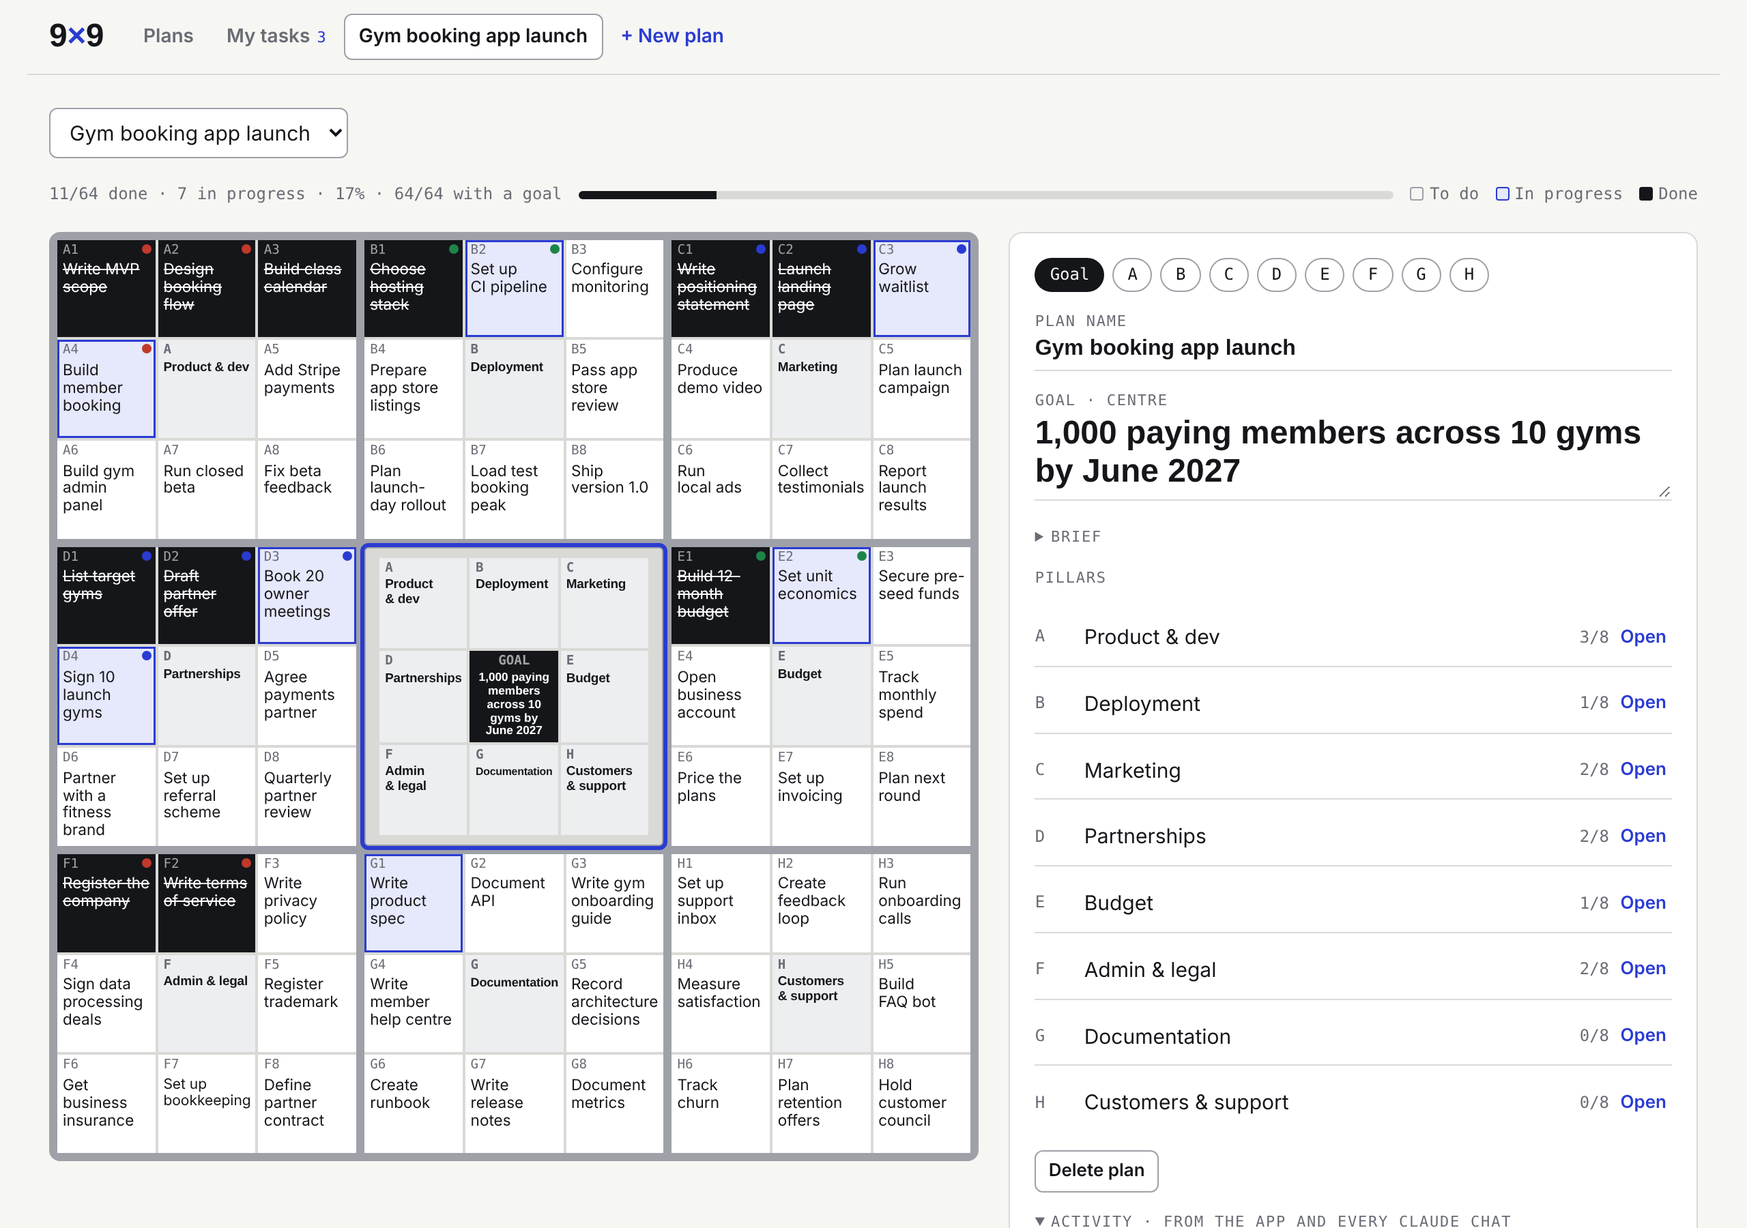
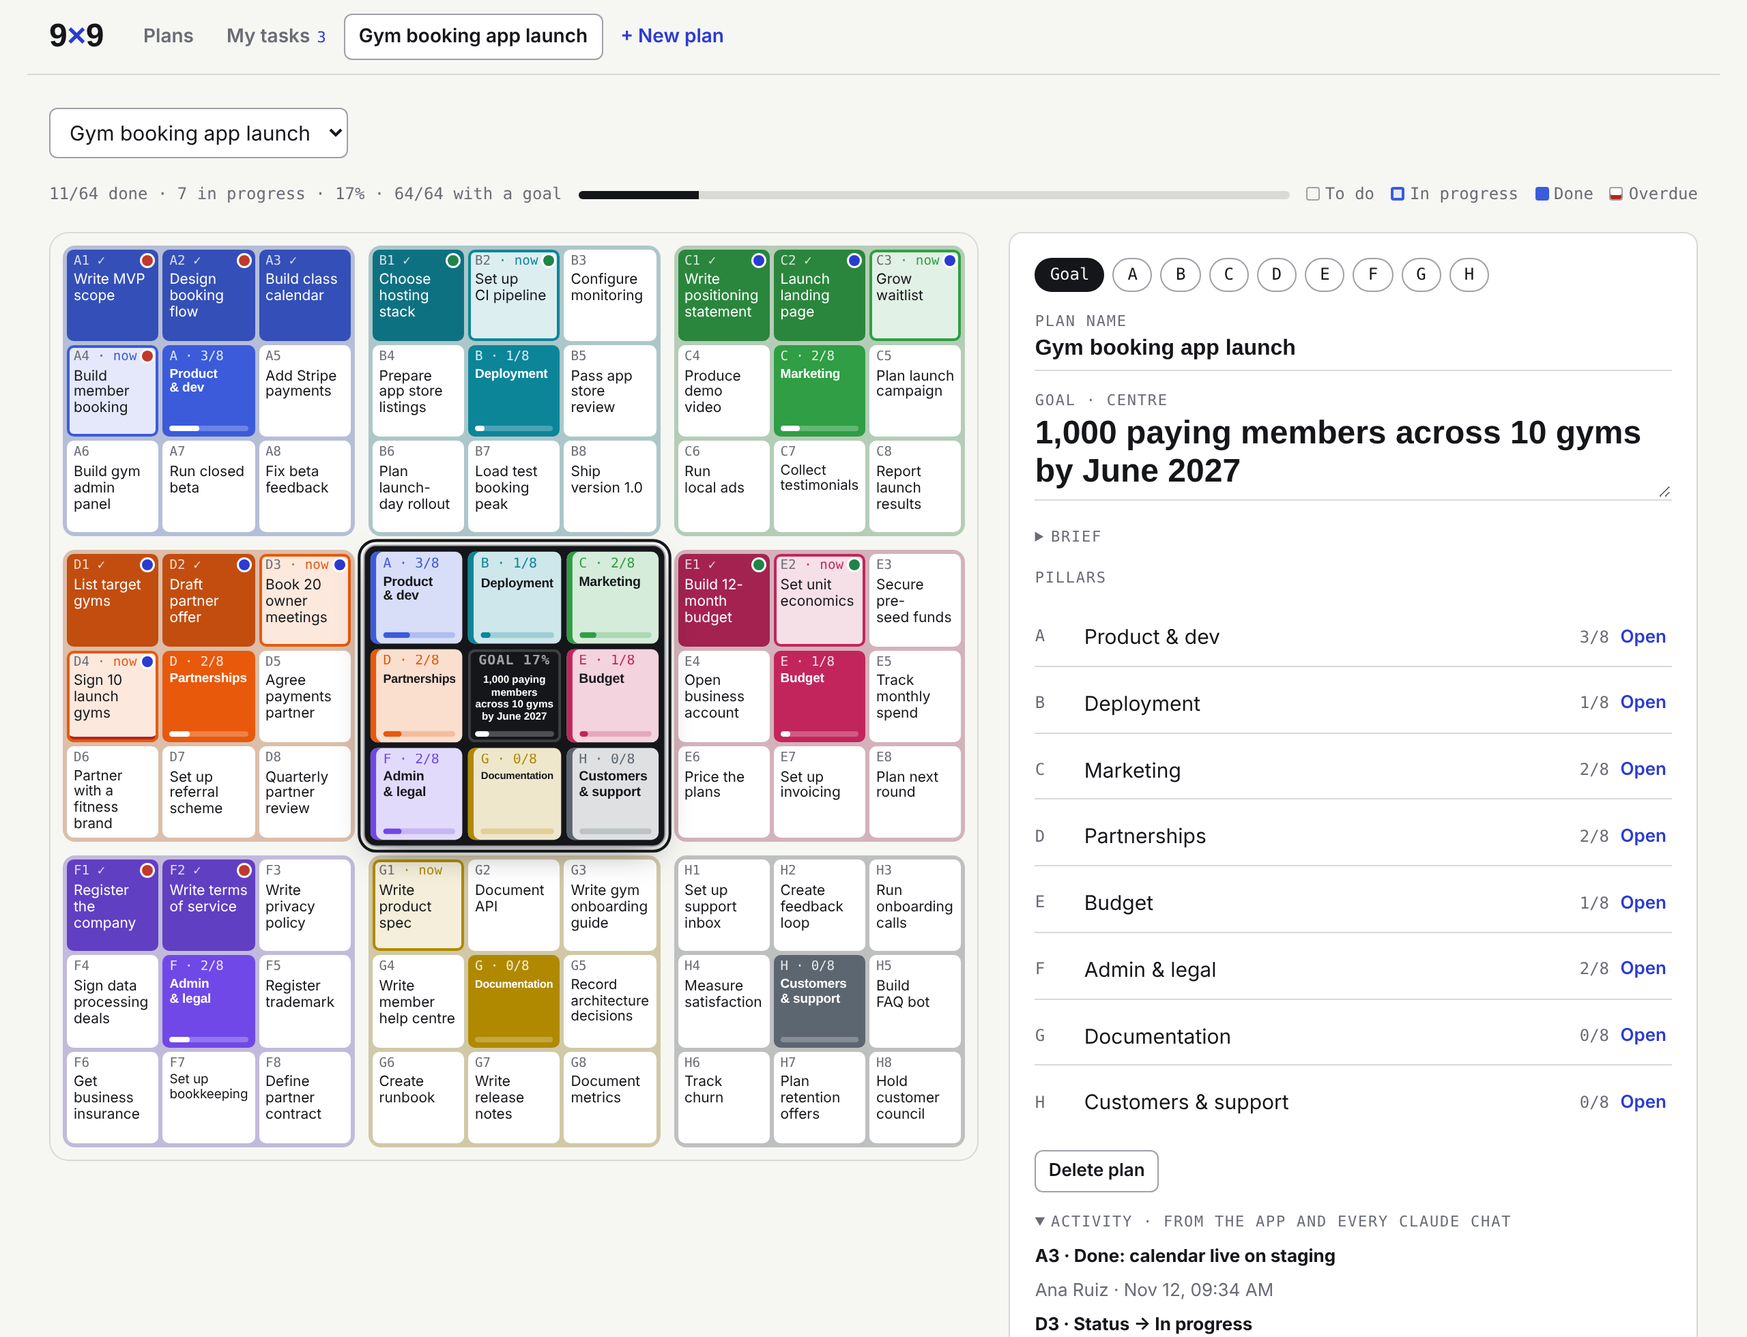
Grid redesign: colour-coded pillars, standout centre, status fills, how-it-works strip
Each pillar gets its own colour shared by its ring square, its outer
square and its actions; ring and mirror squares show done/total and a
progress bar; the centre block is raised; done actions fill with the
pillar colour, in-progress ones are outlined, overdue ones get a red
edge; hovering a pillar lights up both of its squares; first-time users
see a dismissible three-step explainer.

Claude-Session: https://claude.ai/code/session_01SXuN4rHWT8FirLUfgHheWm

diff --git a/9x9-planner/assets/planner.html b/9x9-planner/assets/planner.html
@@ -8,16 +8,17 @@
   --paper:#f6f6f3; --sheet:#ffffff; --ink:#15161a; --muted:#6a6c75; --rule:#d9dad6; --rule-strong:#9fa1a8;
   --accent:#2a3bd1; --accent-soft:#e6e8fb; --done:#15161a; --done-fg:#ffffff; --pillar:#eceef0; --goal:#15161a; --goal-fg:#ffffff;
   --danger:#b3261e;
+  --pA:#3b5bdb; --pB:#0c8599; --pC:#2f9e44; --pD:#e8590c; --pE:#c2255c; --pF:#7048e8; --pG:#b08900; --pH:#5c6670;
   --f-display:"Archivo","Arial Narrow",Arial,sans-serif;
   --f-body:"Archivo",system-ui,-apple-system,"Segoe UI",sans-serif;
   --f-mono:"IBM Plex Mono",ui-monospace,Menlo,Consolas,monospace;
 }
 @media (prefers-color-scheme:dark){:root:not([data-theme="light"]){
   --paper:#111216; --sheet:#1a1b20; --ink:#ecedf0; --muted:#9b9da6; --rule:#2c2e35; --rule-strong:#565963;
-  --accent:#8f9bff; --accent-soft:#252a52; --done:#ecedf0; --done-fg:#111216; --pillar:#24262c; --goal:#ecedf0; --goal-fg:#111216; --danger:#ff8a80; color-scheme:dark}}
+  --accent:#8f9bff; --accent-soft:#252a52; --done:#ecedf0; --done-fg:#111216; --pillar:#24262c; --goal:#ecedf0; --goal-fg:#111216; --danger:#ff8a80; --pA:#748ffc; --pB:#3bc9db; --pC:#69db7c; --pD:#ffa94d; --pE:#f783ac; --pF:#b197fc; --pG:#ffd43b; --pH:#adb5bd; color-scheme:dark}}
 :root[data-theme="dark"]{
   --paper:#111216; --sheet:#1a1b20; --ink:#ecedf0; --muted:#9b9da6; --rule:#2c2e35; --rule-strong:#565963;
-  --accent:#8f9bff; --accent-soft:#252a52; --done:#ecedf0; --done-fg:#111216; --pillar:#24262c; --goal:#ecedf0; --goal-fg:#111216; --danger:#ff8a80; color-scheme:dark}
+  --accent:#8f9bff; --accent-soft:#252a52; --done:#ecedf0; --done-fg:#111216; --pillar:#24262c; --goal:#ecedf0; --goal-fg:#111216; --danger:#ff8a80; --pA:#748ffc; --pB:#3bc9db; --pC:#69db7c; --pD:#ffa94d; --pE:#f783ac; --pF:#b197fc; --pG:#ffd43b; --pH:#adb5bd; color-scheme:dark}
 *{box-sizing:border-box}
 body{background:var(--paper);color:var(--ink);font-family:var(--f-body);font-size:15px;line-height:1.45}
 .wrap{max-width:1240px;margin:0 auto;padding:0 16px 48px;display:grid;gap:18px}
@@ -55,26 +56,50 @@ button{cursor:pointer}
 .gridbox{overflow-x:auto;-webkit-overflow-scrolling:touch;display:grid;gap:6px}
 .gridhint{display:none;font-size:12px;color:var(--muted);margin:0}
 @media (max-width:640px){.gridhint{display:block}}
-.board{display:grid;grid-template-columns:repeat(3,minmax(0,1fr));grid-template-rows:repeat(3,minmax(0,1fr));gap:6px;aspect-ratio:1;max-width:100%;min-width:600px;background:var(--rule-strong);padding:6px;border-radius:8px}
-.block{display:grid;grid-template-columns:repeat(3,minmax(0,1fr));grid-template-rows:repeat(3,minmax(0,1fr));min-width:0;min-height:0;gap:2px;background:var(--rule);border-radius:3px;outline:0 solid var(--accent);transition:outline-width .1s}
-.block.sel{outline-width:3px}
-.cell{min-height:0;position:relative;background:var(--sheet);border:0;padding:3px 4px;text-align:left;display:flex;flex-direction:column;justify-content:flex-start;overflow:hidden;min-width:0;font-size:clamp(8px,1.05vw,12px);line-height:1.15}
-.cell .code{font-family:var(--f-mono);font-size:clamp(7px,.75vw,10px);color:var(--muted);line-height:1;flex:none}
+.board{display:grid;grid-template-columns:repeat(3,minmax(0,1fr));grid-template-rows:repeat(3,minmax(0,1fr));gap:10px;aspect-ratio:1;max-width:100%;min-width:600px;background:var(--paper);padding:10px;border-radius:14px;box-shadow:inset 0 0 0 1px var(--rule)}
+.block{--pc:var(--rule-strong);display:grid;grid-template-columns:repeat(3,minmax(0,1fr));grid-template-rows:repeat(3,minmax(0,1fr));min-width:0;min-height:0;gap:3px;padding:3px;background:color-mix(in srgb,var(--pc) 22%,var(--rule));border-radius:9px;outline:0 solid var(--pc);outline-offset:2px;transition:outline-width .12s,transform .12s,box-shadow .12s}
+.block.sel{outline-width:2.5px}
+.block.centre{background:var(--ink);padding:4px;gap:4px;box-shadow:0 8px 24px -8px color-mix(in srgb,var(--ink) 55%,transparent);transform:scale(1.035);z-index:1;outline-color:var(--ink)}
+.block.hl:not(.centre){outline-width:2.5px}
+.cell{--pc2:var(--pc);min-height:0;position:relative;background:var(--sheet);border:0;border-radius:5px;padding:4px 5px;text-align:left;display:flex;flex-direction:column;justify-content:flex-start;overflow:hidden;min-width:0;font-size:clamp(8px,1.05vw,12px);line-height:1.15}
+.cell .code{font-family:var(--f-mono);font-size:clamp(7px,.75vw,10px);color:var(--muted);line-height:1;flex:none;white-space:nowrap;overflow:hidden;text-overflow:ellipsis;padding-right:8px}
 /* text is sized by fitBoard(): whole words only, shrunk until it sits inside the square */
 .cell .tx{display:block;flex:1 1 auto;min-height:0;overflow:hidden;overflow-wrap:normal;word-break:normal;hyphens:manual;margin-top:3px;line-height:1.14;text-wrap:balance}
 .cell .tx.clamp{display:-webkit-box;-webkit-box-orient:vertical;overflow-wrap:break-word}
+.cell.empty{background:color-mix(in srgb,var(--sheet) 55%,transparent)}
 .cell.empty .tx{color:var(--rule-strong)}
-.cell.pil{background:var(--pillar);font-weight:700;font-family:var(--f-display);font-stretch:75%;letter-spacing:-.01em}
-.cell.goal{background:var(--goal);color:var(--goal-fg);font-weight:800;font-family:var(--f-display);font-stretch:80%;text-align:center}
+.cell.pil{background:var(--pc2);color:#fff;font-weight:700;font-family:var(--f-display);font-stretch:75%;letter-spacing:-.01em}
+.cell.pil .code{color:inherit;opacity:.85;font-weight:500}
+.cell.pil.empty{background:color-mix(in srgb,var(--pc2) 45%,var(--sheet))}
+.cell.pil.empty .tx{color:inherit;opacity:.8}
+.cell.ring{background:color-mix(in srgb,var(--pc2) 20%,var(--sheet));color:var(--ink);box-shadow:inset 4px 0 0 var(--pc2);padding-left:9px}
+.cell.ring .code{color:var(--pc2);opacity:1}
+.cell.ring.empty .tx{color:var(--muted)}
+.cell.ring.hl{background:color-mix(in srgb,var(--pc2) 34%,var(--sheet))}
+.pbar{flex:none;height:4px;border-radius:2px;background:color-mix(in srgb,currentColor 25%,transparent);overflow:hidden;margin-top:3px}
+.pbar i{display:block;height:100%;background:currentColor;border-radius:2px}
+.cell.ring .pbar{background:color-mix(in srgb,var(--pc2) 25%,transparent)}
+.cell.ring .pbar i{background:var(--pc2)}
+:root[data-theme="dark"] .cell.pil:not(.ring){color:#111216}
+@media (prefers-color-scheme:dark){:root:not([data-theme="light"]) .cell.pil:not(.ring){color:#111216}}
+.cell.goal{background:var(--goal);color:var(--goal-fg);font-weight:800;font-family:var(--f-display);font-stretch:80%;text-align:center;box-shadow:inset 0 0 0 2px color-mix(in srgb,var(--goal-fg) 18%,transparent)}
+.cell.goal .code{letter-spacing:.06em;padding-right:0}
+.cell.goal .pbar{margin-top:4px}
 .cell.goal .tx{flex:1 1 auto;display:flex;align-items:center;justify-content:center}
 .cell.goal .tx.clamp{display:-webkit-box;align-items:normal}
 .cell.goal .code{color:inherit;opacity:.6}
-.cell.s1{background:var(--accent-soft);box-shadow:inset 0 0 0 1.5px var(--accent)}
-.cell.s2{background:var(--done);color:var(--done-fg)}
-.cell.s2 .code{color:inherit;opacity:.6}
-.cell.s2 .tx{text-decoration:line-through;text-decoration-thickness:1px}
-.cell.hit{box-shadow:inset 0 0 0 2px var(--accent)}
-.cell:hover{filter:brightness(.97)}
+.cell.s1{background:color-mix(in srgb,var(--pc2) 14%,var(--sheet));box-shadow:inset 0 0 0 2px var(--pc2)}
+.cell.s1 .code::after{content:" · now";color:var(--pc2);font-weight:500}
+.cell.s2{background:color-mix(in srgb,var(--pc2) 82%,var(--ink));color:#fff}
+.cell.s2 .code{color:inherit;opacity:.8}
+.cell.s2 .code::after{content:" ✓";font-weight:600}
+:root[data-theme="dark"] .cell.s2{background:color-mix(in srgb,var(--pc2) 70%,var(--paper));color:#111216}
+@media (prefers-color-scheme:dark){:root:not([data-theme="light"]) .cell.s2{background:color-mix(in srgb,var(--pc2) 70%,var(--paper));color:#111216}}
+.cell.late:not(.s2){box-shadow:inset 0 -3px 0 var(--danger)}
+.cell.late.s1{box-shadow:inset 0 0 0 2px var(--pc2),inset 0 -4px 0 var(--danger)}
+.cell.hit{box-shadow:inset 0 0 0 2.5px var(--ink)}
+.cell:hover{filter:brightness(.96)}
+.cell:active{transform:scale(.98)}
 @media (max-width:520px){.cell{padding:2px 3px}}
 
 /* panel */
@@ -218,7 +243,7 @@ details.brief dd{margin:0;color:var(--muted)}
 .pick{border:1px solid var(--rule-strong);background:var(--sheet);border-radius:999px;padding:3px 10px 3px 3px;display:inline-flex;gap:6px;align-items:center;font-size:13px}
 .pick.on{border-color:var(--accent);background:var(--accent-soft)}
 .pick.none{padding:3px 10px}
-.cell .od{position:absolute;top:3px;right:3px;width:7px;height:7px;border-radius:50%}
+.cell .od{position:absolute;top:4px;right:4px;width:8px;height:8px;border-radius:50%;box-shadow:0 0 0 1.5px var(--sheet)}
 /* my tasks */
 .mine{display:grid;gap:22px}
 .mgroup h3{margin:0 0 6px;font-family:var(--f-mono);font-size:11px;letter-spacing:.08em;text-transform:uppercase;color:var(--muted);font-weight:500}
@@ -229,6 +254,15 @@ details.brief dd{margin:0;color:var(--muted)}
 .mrow .open small{color:var(--muted);font-size:12px}
 .mrow .due{font-family:var(--f-mono);font-size:12px;color:var(--muted);font-variant-numeric:tabular-nums}
 .mrow.late .due{color:var(--danger)}
+/* how-it-works strip */
+.howto{display:grid;grid-template-columns:auto repeat(3,minmax(0,1fr)) auto;gap:14px;align-items:center;background:var(--sheet);border:1px solid var(--rule);border-radius:12px;padding:12px 14px}
+.howto .mini{display:grid;grid-template-columns:repeat(3,10px);gap:2px}
+.howto .mini i{width:10px;height:10px;border-radius:2px;background:var(--rule)}
+.howto .mini i.g{background:var(--goal)}
+.howto .hstep{display:flex;gap:8px;align-items:flex-start;font-size:13px;line-height:1.35;min-width:0}
+.howto .hstep b{flex:none;width:20px;height:20px;border-radius:50%;background:var(--ink);color:var(--paper);display:grid;place-items:center;font-size:11px;font-family:var(--f-mono)}
+.howto .x{border:0;background:none;color:var(--muted);font-size:13px;font-weight:600;padding:4px 6px}
+@media (max-width:760px){.howto{grid-template-columns:1fr}.howto .mini{display:none}}
 /* clickable task rows + task detail */
 .trow{display:grid;grid-template-columns:28px 34px minmax(0,1fr);gap:8px;align-items:center;padding:6px 0;border-bottom:1px solid var(--rule)}
 .trow:last-child{border-bottom:0}
@@ -310,6 +344,7 @@ let user = null, me = null, people = [], profs = {}, ownPick = false, ownHits = 
 const synced = {}, legacy = new Set(), chain = {}, latest = {};
 let draft = (() => { try { const d = JSON.parse(lsGet0("nxn-draft")||"null"); if (d && d.areas) return Object.assign(blankDraft(), d); } catch(e){} return blankDraft(); })();
 const ARTIFACT_URL = "{{PLANNER_URL}}"; // the skill fills this in after the first publish
+let showHowto = lsGet0("nxn-howto") !== "0";
 let ovSort = lsGet0("nxn-sort") || "progress", openNote = null, showHand = false;
 let gBusy = false, gMsg = "", gErr = false, draftTimer = null;
 function lsGet0(k){ try { return localStorage.getItem(k); } catch(e){ return null; } }
@@ -446,21 +481,22 @@ function render(){
   }
   const p = plans[cur], s = stats(p), pct = s.total ? Math.round(s.done/s.total*100) : 0;
 
-  let board = "";
+  let board = ""; const td0 = today();
   for (let b=0;b<9;b++){
     let cells = "";
     for (let c=0;c<9;c++){
-      let cls="cell", code="", tx="", data=`data-b="${b}" data-c="${c}"`;
-      if (b===4 && c===4){ cls+=" goal"; code="GOAL"; tx=p.goal||"Your goal"; }
-      else if (b===4 || c===4){ const i = idxOf(b===4?c:b); const t=p.pillars[i].title;
-        cls+=" pil"+(t?"":" empty"); code=L[i]; tx=t||"Pillar "+L[i]; }
+      let cls="cell", code="", tx="", data=`data-b="${b}" data-c="${c}"`, style="", extra="";
+      if (b===4 && c===4){ cls+=" goal"; code=`GOAL ${pct}%`; tx=p.goal||"Your goal"; extra=`<span class="pbar"><i style="width:${pct}%"></i></span>`; }
+      else if (b===4 || c===4){ const i = idxOf(b===4?c:b); const t=p.pillars[i].title, ps=stats(p,i);
+        cls+=" pil"+(b===4?" ring":"")+(t?"":" empty"); code=`${L[i]} · ${ps.done}/${ps.total||8}`; tx=t||"Pillar "+L[i];
+        style=` style="--pc2:var(--p${L[i]})"`; extra=`<span class="pbar"><i style="width:${ps.total?Math.round(ps.done/ps.total*100):0}%"></i></span>`; }
       else { const i=idxOf(b), j=idxOf(c), t=p.pillars[i].tasks[j];
-        cls+=(t.t?"":" empty")+(t.t?" s"+t.s:""); code=L[i]+(j+1); tx=t.t||"—";
+        cls+=(t.t?"":" empty")+(t.t?" s"+t.s:"")+(t.t&&t.s!==2&&t.due&&t.due<td0?" late":""); code=L[i]+(j+1); tx=t.t||"+";
         if (focusTask && focusTask[0]===i && focusTask[1]===j) cls+=" hit"; }
       const od = (b!==4 && c!==4) ? p.pillars[idxOf(b)].tasks[idxOf(c)].o : "";
-      cells += `<button class="${cls}" ${data} aria-label="${esc(code+": "+tx+(od?", owner "+pname(od):""))}"><span class="code">${code}</span><span class="tx">${esc(tx)}</span>${od?`<i class="od" style="background:${esc((profs[od]&&profs[od].color)||"var(--accent)")}"></i>`:""}</button>`;
+      cells += `<button class="${cls}" ${data}${style} aria-label="${esc(code+": "+tx+(od?", owner "+pname(od):""))}"><span class="code">${code}</span><span class="tx">${esc(tx)}</span>${extra}${od?`<i class="od" style="background:${esc((profs[od]&&profs[od].color)||"var(--accent)")}"></i>`:""}</button>`;
     }
-    board += `<div class="block${b===sel?" sel":""}">${cells}</div>`;
+    board += `<div class="block${b===sel?" sel":""}${b===4?" centre":""}" data-pl="${b===4?"":L[idxOf(b)]}"${b!==4?` style="--pc:var(--p${L[idxOf(b)]})"`:""}>${cells}</div>`;
   }
 
   // in-progress / overdue strip
@@ -471,7 +507,12 @@ function render(){
   app.innerHTML = `
   <div class="boardbar"><select id="planSel" class="sel" aria-label="Switch plan">${ids.map(id => `<option value="${id}" ${id===cur?"selected":""}>${esc(plans[id].name)}</option>`).join("")}</select></div>
   <div class="meter"><span>${s.done}/${s.total} done · ${s.doing} in progress · ${pct}% · ${p.pillars.flatMap(x=>x.tasks).filter(t=>t.t.trim()&&t.g.trim()).length}/${s.total} with a goal</span><div class="bar"><i style="width:${pct}%"></i></div>
-    <span class="legend"><span><b></b>To do</span><span><b style="background:var(--accent-soft);border-color:var(--accent)"></b>In progress</span><span><b style="background:var(--done);border-color:var(--done)"></b>Done</span></span></div>
+    <span class="legend"><span><b></b>To do</span><span><b style="background:color-mix(in srgb,var(--pA) 14%,var(--sheet));border:2px solid var(--pA)"></b>In progress</span><span><b style="background:var(--pA);border-color:var(--pA)"></b>Done</span><span><b style="background:var(--sheet);box-shadow:inset 0 -3px 0 var(--danger)"></b>Overdue</span></span></div>
+  ${showHowto ? `<div class="howto" role="note"><span class="mini" aria-hidden="true">${[0,1,2,3,4,5,6,7,8].map(k=>`<i class="${k===4?"g":""}" style="${k!==4?`background:var(--p${L[idxOf(k)]})`:""}"></i>`).join("")}</span>
+    <span class="hstep"><b>1</b><span><strong>Your goal</strong> sits in the dark centre square.</span></span>
+    <span class="hstep"><b>2</b><span><strong>8 pillars</strong> ring it, each with its own colour and progress bar.</span></span>
+    <span class="hstep"><b>3</b><span>Each pillar's <strong>8 actions</strong> fill the outer square of the same colour. Tap any square to open it.</span></span>
+    <button class="x" id="howtoX">Got it</button></div>` : ""}
   <div class="main">
     <div class="gridbox"><div class="board" id="board">${board}</div><p class="gridhint">Swipe sideways to see the whole grid. Tap any square to open it.</p></div>
     <section class="panel" id="panel">${sel===4 ? centrePanel(p) : pillarPanel(p, idxOf(sel))}</section>
@@ -562,6 +603,12 @@ function pickerHTML(t){
 }
 function wire(p){
   const ps=$("#planSel"); if (ps) ps.onchange = onPlanSel;
+  const hx=$("#howtoX"); if (hx) hx.onclick = () => { showHowto=false; lsSet("nxn-howto","0"); render(); };
+  // hovering a pillar lights up its outer square and its ring square together
+  const bd=$("#board");
+  if (bd){ const light = k => { bd.querySelectorAll(".hl").forEach(e=>e.classList.remove("hl")); if (!k) return; const blk=bd.querySelector(`.block[data-pl="${k}"]`); if (blk) blk.classList.add("hl"); const ring=bd.querySelector(`.block.centre .cell[data-c="${POS[L.indexOf(k)]}"]`); if (ring) ring.classList.add("hl"); };
+    bd.querySelectorAll(".block").forEach(blk => { if (blk.dataset.pl) { blk.onmouseenter = () => light(blk.dataset.pl); blk.onmouseleave = () => light(null); } });
+    bd.querySelectorAll(".block.centre .cell.ring").forEach(c => { const k=L[idxOf(+c.dataset.c)]; c.onmouseenter = () => light(k); c.onmouseleave = () => light(null); }); }
   document.querySelectorAll("#board .cell").forEach(el => el.onclick = () => {
     const b=+el.dataset.b, c=+el.dataset.c;
     if (b===4 && c!==4){ sel = POS[idxOf(c)]; focusTask=null; }
@@ -651,7 +698,7 @@ function refreshBoardOnly(){
     const b=+el.dataset.b, c=+el.dataset.c; let tx;
     if (b===4&&c===4) tx=p.goal||"Your goal";
     else if (b===4||c===4){ const i=idxOf(b===4?c:b); tx=p.pillars[i].title||"Pillar "+L[i]; el.classList.toggle("empty",!p.pillars[i].title); }
-    else { const t=p.pillars[idxOf(b)].tasks[idxOf(c)]; tx=t.t||"—"; el.classList.toggle("empty",!t.t); }
+    else { const t=p.pillars[idxOf(b)].tasks[idxOf(c)]; tx=t.t||"+"; el.classList.toggle("empty",!t.t); }
     el.querySelector(".tx").textContent=tx;
   });
   fitSoon();

diff --git a/README.md b/README.md
@@ -4,7 +4,7 @@
 
 One goal in the centre. Eight pillars around it that must all succeed. Eight actions under each pillar, every one with a clear definition of done. That's 64 actions covering everything from the code to the marketing, the budget, the paperwork and the documentation, on one grid you can see at a glance.
 
-![The 9×9 grid: goal in the centre, eight pillars around it, each broken into eight actions. Done actions are dark, actions in progress are outlined in blue.](docs/screenshots/grid.png)
+![The 9×9 grid: the goal in the dark centre square, eight colour-coded pillars around it with progress bars, and each pillar's eight actions in the outer square of the same colour. Done actions fill with the pillar's colour; actions in progress are outlined.](docs/screenshots/grid.png)
 
 **[Download the skill (ZIP)](https://github.com/MK-Lib/9x9-planner/raw/main/9x9-planner.zip)** · [Install](#install) · [Commands](#commands) · [How it works](#how-it-works)
 
@@ -39,7 +39,7 @@ Because every pillar gets the same eight slots, the grid makes it obvious when a
 - **Organises your thinking.** Talk or type everything about your idea in any order. Claude sorts it into a brief, shows what's clear, vague or missing, and asks sharp follow-up questions about *your* idea.
 - **Builds the complete plan.** It proposes a measurable goal, 8 pillars and 64 actions, each with a goal you can check ("10 signed partner agreements", not "work on partners").
 - **Captures a chat you've already had.** Mid-project? `/9x9-planner capture` reads the conversation, marks what's already done, lists what was discussed but not done, and fills in the areas the chat never touched.
-- **Shows progress visually.** A live grid in Claude: dark squares are done, outlined ones are in progress. There's also a list of all your plans ranked by progress, and a "My tasks" view per person.
+- **Shows progress visually.** A live, colour-coded grid in Claude. Each pillar has its own colour and progress bar, and its actions sit in the outer square of the same colour. Done actions fill with colour, so the grid fills up as the project moves. There's also a list of all your plans ranked by progress, and a "My tasks" view per person.
 - **Works with you on any action.** Say `/9x9-planner work` and Claude takes the next action, checks its goal, does the research, drafts or analysis, and ticks it off when the goal is met.
 - **Stays in sync everywhere.** Every chat reads and writes the same live plan, and every change goes into a shared activity log. Nothing lives in a single chat.
 - **Keeps the whole plan consistent.** When something changes, such as a slipped date, a new decision or a finished result, Claude checks which other actions are affected and proposes the follow-on edits.
